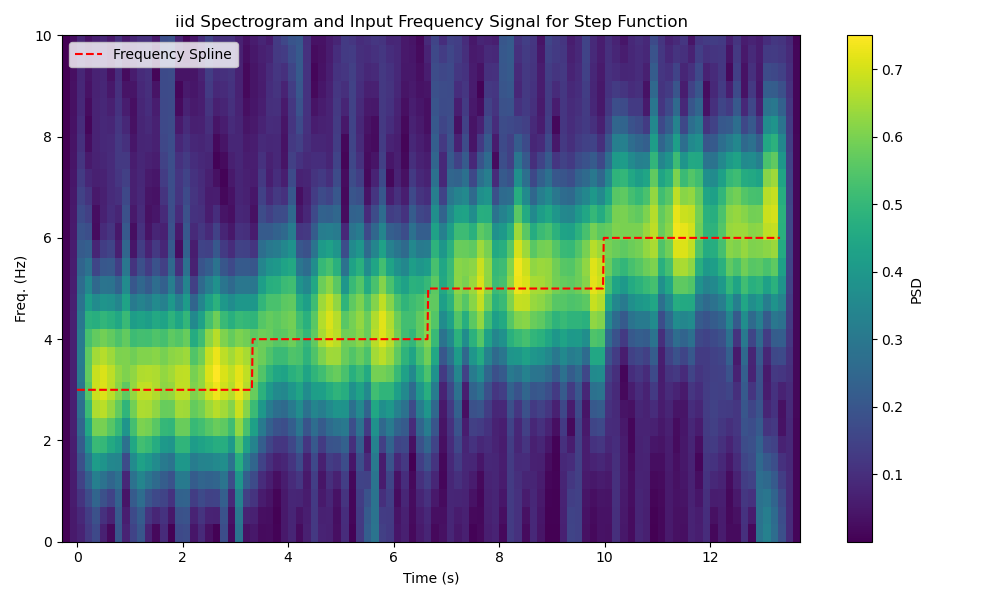
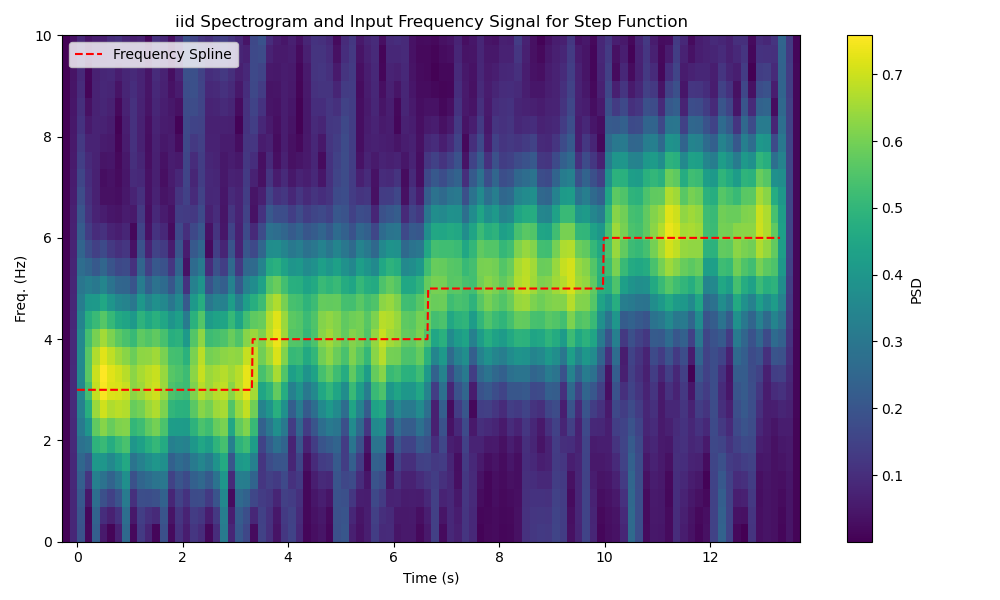
Wandering Line V1.52

diff --git a/WanderingLine/DummySignal/sigAnalysis.py b/WanderingLine/DummySignal/sigAnalysis.py
@@ -25,8 +25,15 @@ def plotFFT(x, y, Ts, filename='FFTPlot'):
     plt.show()
     return xf, yg
 
-# plots spectrogram of 
-def plotSpectrogram(times, data, Ts, fmax, filename='SpectrogramPlot'):
+# plots spectrogram of input data using short FFT
+def plotSpectrogram(t, data, Ts, fmax, filename='SpectrogramPlot'):
+    # INPUTS:
+    # t:         1D time array with Ts spacing
+    # data:      1D array
+    # Ts:        Sampling rate
+    # fmax:      Maximum frequency in data
+    # filename:  String of saved plot image
+
     N = len(data); flim = int(1.5*fmax)
 
     g_std = 8  # standard deviation for Gaussian window in samples
@@ -51,50 +58,66 @@ def plotSpectrogram(times, data, Ts, fmax, filename='SpectrogramPlot'):
     plt.savefig('.\\WanderingLine\\SavedFiles\\SignalPlots\\' + filename + '.png')
     plt.show()
 
-def plotAllTime(times, distSig, cleanSig, freqKnots, freqs, Ts, fmax, filename='TimePlots'):
-    plt.figure(figsize=(15, 10))
+# plots frequency, resulting sin wave, iid sin wave, and spectrogram of iid against time
+def plotAllTime(t, cleanSig, distSig, freqs, freqKnots, Ts, fmax, filename='TimePlots'):
+    # INPUTS:
+    # t:         1D time array with Ts spacing
+    # cleanSig:  1D array of clean signal
+    # distSig:   1D array of cleanSig with added iid
+    # freqs:     1D frequency array
+    # freqKnots: 2-tuple of time and frequency values used for BSpline generation  
+    # Ts:        Sampling rate
+    # fmax:      Maximum frequency in data
+    # filename:  String of saved plot image
+
+    plt.figure(figsize=(15, 10)) # plot setup and structure
     plot1 = plt.subplot2grid((4, 1), (0, 0)) 
     plot2 = plt.subplot2grid((4, 1), (1, 0))
     plot3 = plt.subplot2grid((4, 1), (2, 0)) 
     plot4 = plt.subplot2grid((4, 1), (3, 0)) 
 
-    N = len(times); flim = int(1.5*fmax)
+    flim = int(1.5*fmax) # increased ceiling for fmax due to iid
 
-    g_std = 8  # standard deviation for Gaussian window in samples
+    # Spectrogram plot
+    N = len(t); g_std = 8  # standard deviation for Gaussian window in samples
     w = gaussian(50, std=g_std, sym=True)  # symmetric Gaussian window
     SFT = ShortTimeFFT(w, hop=10, fs=1/Ts, mfft=200, scale_to='psd')
     Sx = SFT.stft(distSig)  # perform the STFT
 
     t_lo, t_hi = SFT.extent(N)[:2]  # time range of plot
     plot4.set_title(rf"Short FFTs of iid Signal in Spectrogram")
-    plot4.set(xlabel=f"t (s)",
-            ylabel=f"freq. (Hz)",
-            xlim=(t_lo, t_hi), ylim=(0, flim))
+    plot4.set(xlabel=f"t (s)", ylabel=f"freq. (Hz)", xlim=(t_lo, t_hi), ylim=(0, flim))
+    im1 = plot4.imshow(abs(Sx), origin='lower', aspect='auto', extent=SFT.extent(N), cmap='viridis') # heat mapping
 
-    im1 = plot4.imshow(abs(Sx), origin='lower', aspect='auto',
-                    extent=SFT.extent(N), cmap='viridis')
-
-    plot1.plot(times, freqs, color='hotpink')
+    # Frequency plot
+    plot1.plot(t, freqs, color='hotpink')
     plot1.plot(freqKnots[0], freqKnots[1], 'o', color = 'pink')
     plot1.set(ylabel='freq (Hz)', xlim=(t_lo, t_hi), ylim=(0, flim), title='Frequency(Hz)')
 
-    plot2.plot(times, cleanSig, '-', color='g') 
-    # axis values are for some reason floats, need to make adaptable
+    # Clean signal plot
+    plot2.plot(t, cleanSig, '-', color='g') 
     plot2.set(ylabel='q(t)', xlim=(t_lo, t_hi), title='Clean Signal') 
 
-    plot3.plot(times, distSig, 'o', color='g') 
+    # iid signal plot
+    plot3.plot(t, distSig, 'o', color='g') 
     plot3.set(ylabel='q(t)', xlim=(t_lo, t_hi), title='Dist. Signal') 
     
     plt.tight_layout()
     plt.savefig('.\\WanderingLine\\SavedFiles\\SignalPlots\\' + filename + '.png')
     plt.show() 
 
+# Plots Power Spectral Density of input data with logarithmic and linear plotting
 def plotPSD(data, Ts, filename='PSDPlot'):
-    plt.figure()
+    # INPUTS:
+    # data:      1D array
+    # Ts:        Sampling rate
+    # filename:  String of saved plot image
+
+    plt.figure() # plot setup and structure
     plot1 = plt.subplot2grid((2, 1), (0, 0)) 
     plot2 = plt.subplot2grid((2, 1), (1, 0))
 
-    power, freqs = plot1.psd(data, 512, 1 / Ts, scale_by_freq=False)
+    power, freqs = plot1.psd(data, 512, 1 / Ts, scale_by_freq=False) # performs psd
     plot1.set_title('Logarithmic Plot'); plot1.set_xlabel('')
     plot2.plot(freqs, power); plot2.set_ylabel('Power')
     plot2.set_title('Linear Plot'); plot2.set_xlabel('Freq. (Hz)')
@@ -103,25 +126,34 @@ def plotPSD(data, Ts, filename='PSDPlot'):
     plt.savefig('.\\WanderingLine\\SavedFiles\\SignalPlots\\' + filename + '.png')
     plt.show()
 
-def plotSpectComp(times, Sdata, spline, Ts, fmax, title, filename='SpectCompPlot'):
-    N = len(Sdata); flim = int(1.5*fmax)
+# Plots input frequency signal over spectrogram of some data using short FFT 
+def plotSpectComp(t, SpecData, freqs, Ts, fmax, title, filename='SpectCompPlot'):
+    # INPUTS:
+    # t:         1D time array with Ts spacing
+    # SpectComp: 1D array of data for spectroscopy
+    # freqs:     1D frequency array
+    # Ts:        Sampling rate
+    # fmax:      Maximum frequency in data
+    # title:     Header for plot
+    # filename:  String of saved plot image
+
+    fig1, ax1 = plt.subplots(figsize=(10., 6.)) # plot setup and structure
+
+    N = len(SpecData); flim = int(1.5*fmax)
 
     g_std = 8  # standard deviation for Gaussian window in samples
     w = gaussian(50, std=g_std, sym=True)  # symmetric Gaussian window
     SFT = ShortTimeFFT(w, hop=10, fs=1/Ts, mfft=200, scale_to='psd')
-    Sx = SFT.stft(Sdata)  # perform the STFT
+    Sx = SFT.stft(SpecData)  # perform the STFT
 
-    fig1, ax1 = plt.subplots(figsize=(10., 6.))
     t_lo, t_hi = SFT.extent(N)[:2]  # time range of plot
     ax1.set_title(title)
-    ax1.set(xlabel=f"Time (s)",
-            ylabel=f"Freq. (Hz)",
-            xlim=(t_lo, t_hi), ylim=(0, flim))
+    ax1.set(xlabel=f"Time (s)", ylabel=f"Freq. (Hz)", xlim=(t_lo, t_hi), ylim=(0, flim))
 
-    im1 = ax1.imshow(abs(Sx), origin='lower', aspect='auto',
-                    extent=SFT.extent(N), cmap='viridis')
+    im1 = ax1.imshow(abs(Sx), origin='lower', aspect='auto', extent=SFT.extent(N), cmap='viridis') # heat mapping
     fig1.colorbar(im1, label="PSD")
-    ax1.plot(times, spline, '--', color='r')
+
+    ax1.plot(t, freqs, '--', color='r') # adds input frequency
     plt.legend(['Frequency Spline'], loc='upper left')
     fig1.tight_layout()
     plt.savefig('.\\WanderingLine\\SavedFiles\\SignalPlots\\' + filename + '.png')

diff --git a/WanderingLine/PSOBestFit.py b/WanderingLine/PSOBestFit.py
@@ -4,61 +4,120 @@ import matplotlib.mlab as mlab
 import matplotlib.gridspec as gridspec
 from sko.PSO import PSO
 
+# cosine function with cubic phase
 def polyCos(t, p0, w1, w2, w3):
+    # INPUTS:
+    # t:           1D time array with Ts spacing
+    # p0           Initial phase
+    # w1, w2, w3:  Coefficients for time dependent phase terms
+
     return np.cos(w1*t + w2*t**2 + w3*t**3 + p0)
 
-def leastSquaresFit(params, t, x):
-    w1, w2, w3 = params; a = 2; p0 = 0
+# least squares for input data and polyCos model
+def leastSquaresFit(omegas, t, x):
+    # INPUTS:
+    # omegas:    Coefficients for time dependent phase terms
+    # t:         1D time array with Ts spacing
+    # x:         1D array of input data
+    # OUTPUTS:
+    # fit:       Least squares fit value
+
+    w1, w2, w3 = omegas; a = 2; p0 = 0
     ls = (a*polyCos(t, p0, w1, w2, w3) - x**2)
     fit = 0
     for i in range(len(x)):
         fit = fit + ls[i]
     return fit
 
-def RSub(params, t, x):
-    w1, w2, w3 = params
+# Simplifies polyCos fitting by substituting the to be maximized function with R
+def RSub(omegas, t, x):
+    # INPUTS:
+    # omegas:    Coefficients for time dependent phase terms
+    # t:         1D time array with Ts spacing
+    # x:         1D array of input data
+    # OUTPUTS:
+    # R:         Omega dependent function whose argmax is the same as least squares minimization
+
+    w1, w2, w3 = omegas
     A = sum(x*polyCos(t, 0, w1, w2, w3))
     B = -sum(x*polyCos(t, -np.pi/2, w1, w2, w3))
     R = np.sqrt(A**2+B**2)
     return R
 
+# Plots data set and related model
 def plotPSOFit(t, data, model):
+    # INPUTS:
+    # t:           1D time array with Ts spacing
+    # data, model: 1D arrays
+
     plt.figure(figsize=(15, 10))
     plt.plot(t, data)
-
     plt.plot(t, model)
     plt.show()
 
-# seperately fits to segments of input coordinate data
-def PSOSegmenter(t, signal, dir: str, Nseg: int, lbounds, ubounds):
-    model = np.zeros(len(signal))
+# calculates upper and lower time indices for a given segment of time array
+def bounds(t, n, Nseg):
+    # INPUTS:
+    # t:         1D time array with Ts spacing
+    # n:         Number segment to find the bounds of
+    # Nseg:      Total number of segments
+    # OUTPUTS:
+    # lt, ut     Integer number indices to bound time array
+
     tstep = len(t)//Nseg
-    fitT = 0
 
-    for i in range(Nseg):
-        lt = tstep*i; 
-        if i!=Nseg:
-            ut = lt + tstep + 1
-        else:
-            ut = len(t)+1
-        tseg = t[lt:ut]
-        xseg = signal[lt:ut]
+    lt = tstep*n
+    if n!=(Nseg-1):
+        ut = lt + tstep
+    else:
+        ut = len(t)+1
 
-        R = lambda params: -RSub(params, tseg, xseg)
+    return lt, ut
 
-        pso = PSO(func=R, n_dim=3, pop=40, max_iter=250, lb=lbounds, ub=ubounds, w=0.7, c1=0.5, c2=0.5)
-        pso.run()
+# Uses PSO to fit polyCos model to input data
+def PSOPolyCosFit(t, x, lbounds, ubounds):
+    # INPUTS:
+    # t:                 1D time array with Ts spacing
+    # x:                 1D array of input data
+    # lbounds, ubounds:  Bounds for omega parameters
+    # OUTPUTS:
+    # w1, w2, w3, R:     Best fit omegas and minimal R
 
-        w1, w2, w3 = pso.gbest_x; R = -pso.gbest_y
-        N = sum(polyCos(tseg, 0, w1, w2, w3)**2)
+    RN = lambda omegas: -RSub(omegas, t, x) # generates function to be minimized over omegas
+
+    pso = PSO(func=RN, n_dim=3, pop=40, max_iter=250, lb=lbounds, ub=ubounds, w=0.7, c1=0.5, c2=0.5) # performs PSO fitting over omegas
+    pso.run()
+    plt.plot(pso.gbest_y_hist)
+
+    w1, w2, w3 = pso.gbest_x; R = -pso.gbest_y # best fit omegas and minimal R
+    return w1, w2, w3, R
+
+# seperately fits to segments of input coordinate data
+def PSOSegmenter(t, data, Nseg: int, lbounds, ubounds):
+    # INPUTS:
+    # t:                 1D time array with Ts spacing
+    # data:              1D array of input data
+    # Nseg:              Number of segments to split the data into and fit seperately
+    # lbounds, ubounds:  Bounds for omega parameters
+    # OUTPUTS:
+    # model:             1D array of fitted model
+
+    model = np.zeros(len(data)) # preparing array for model's dependent values
+
+    for n in range(Nseg):
+        lt, ut = bounds(t, n, Nseg) # finds time index bounds for given fitting segment
+        tseg = t[lt:ut]; xseg = data[lt:ut] # segmented t and data values
+
+        w1, w2, w3, R = PSOPolyCosFit(tseg, xseg, lbounds, ubounds) # fits data to polyCos using PSO
+
+        N = sum(polyCos(tseg, 0, w1, w2, w3)**2) # variables for amplitude and phase calculation
         A = sum(xseg*polyCos(tseg, 0, w1, w2, w3))
         B = -sum(xseg*polyCos(tseg, -np.pi/2, w1, w2, w3))
-
         a = R/N; p0 = np.arctan(B/A)
-        model[lt:ut] = a*polyCos(tseg, p0, w1, w2, w3)
-        plt.plot(pso.gbest_y_hist)
-        print('Omegas: ' + str(pso.gbest_x) + '  p0: ' + str(p0) + '  A: ' + str(a))
+
+        model[lt:ut] = a*polyCos(tseg, p0, w1, w2, w3) # adds fitted segment to overall model
+        print('Omegas: ' + str([w1, w2, w3]) + '  p0: ' + str(p0) + '  A: ' + str(a))
     
-    plotPSOFit(t, signal, model)
+    plotPSOFit(t, data, model)
     return model
 

diff --git a/WanderingLine/main.py b/WanderingLine/main.py
@@ -9,20 +9,12 @@ A = 2 # amplitude of signal
 M = 5 # number of breakpoints
 Ts = 1/(10*fmax) # sampling rate
 
-def genWL():
-    freqKnots = fg.genKnot(M, f0, band) # knots for freq spline
-    t, freqs = fg.genBSpline(freqKnots, Ts) # generates time and freq spline arrays
+freqKnots = fg.genKnot(M, f0, band) # knots for freq spline
+t, freqs = fg.genBSpline(freqKnots, Ts) # generates time and freq spline arrays
+cleanSig, distSig = sg.genSignal(t, freqs, A, Ts) # generates signal with smoothly varying frequency and iid noise
 
-    cleanSig, distSig = sg.genSignal(t, freqs, A, Ts) # generates signal with smoothly varying frequency and iid noise
-
-    return t, cleanSig, distSig, freqs, freqKnots
-
-# sa.plotAllTime(t, distSig, cleanSig, freqKnots, freqs, Ts, fmax)
-
-t, cleanSig, distSig, freqs, freqKnots = genWL()
-
-osc = t[-1]*f0 # median number of oscillations
+# sa.plotAllTime(t, cleanSig, distSig, freqs, freqKnots, Ts, fmax)
 
 lbounds = [-40, -5, -5]; ubounds = [40, 5, 5] # w2 and w3 bounds are arbitrary right now
-model= pbf.PSOSegmenter(t, cleanSig, dir, 1, lbounds, ubounds) 
+model= pbf.PSOSegmenter(t, cleanSig, 1, lbounds, ubounds) 
 sa.plotSpectComp(t, model, freqs, Ts, fmax, 'PSO iid Fit Spectrogram and Clean Input Frequency Spline')
